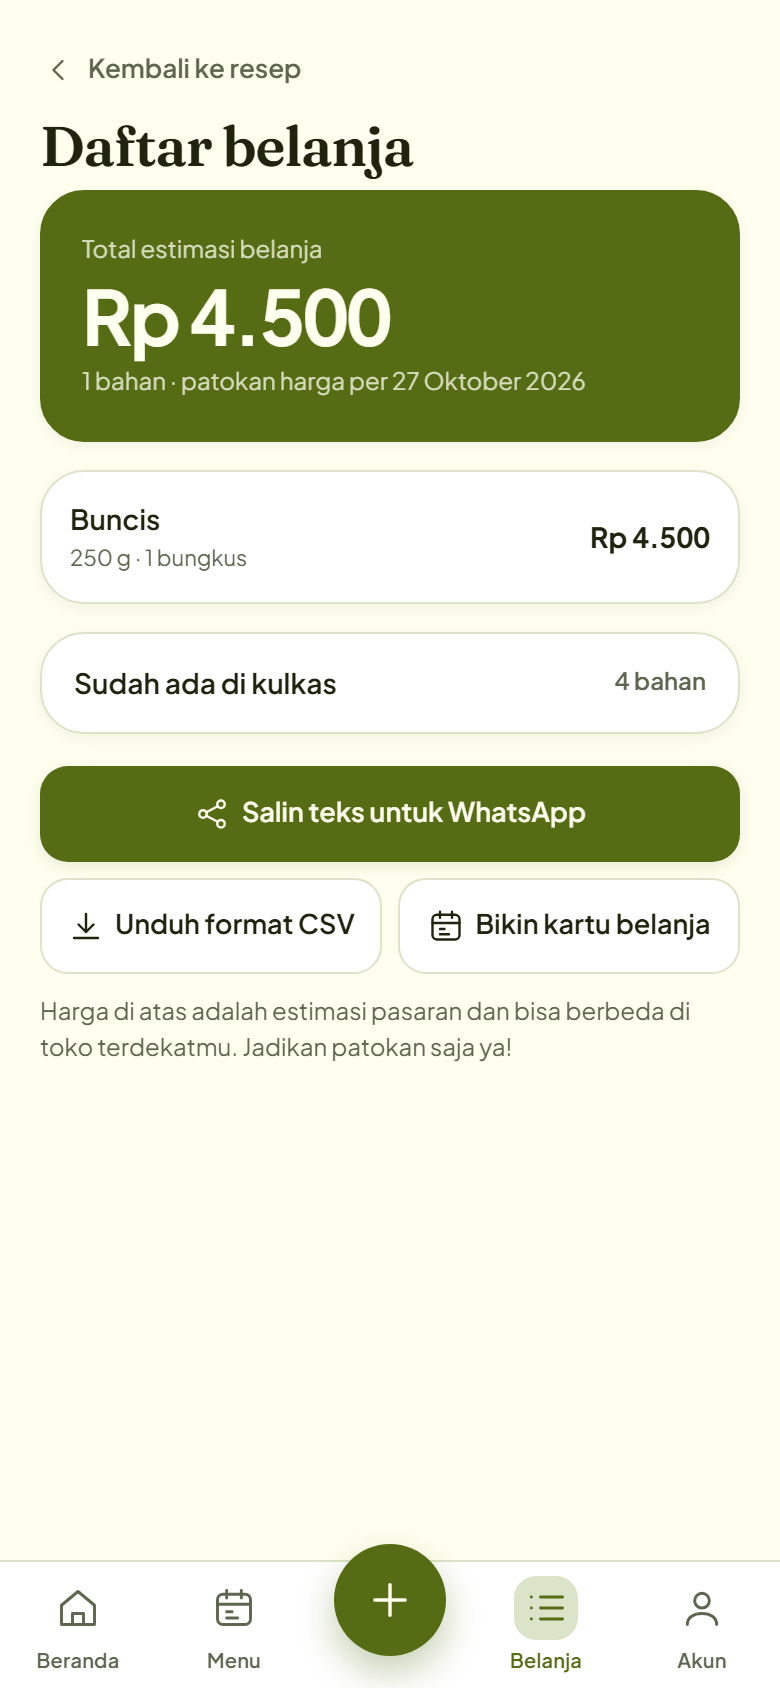
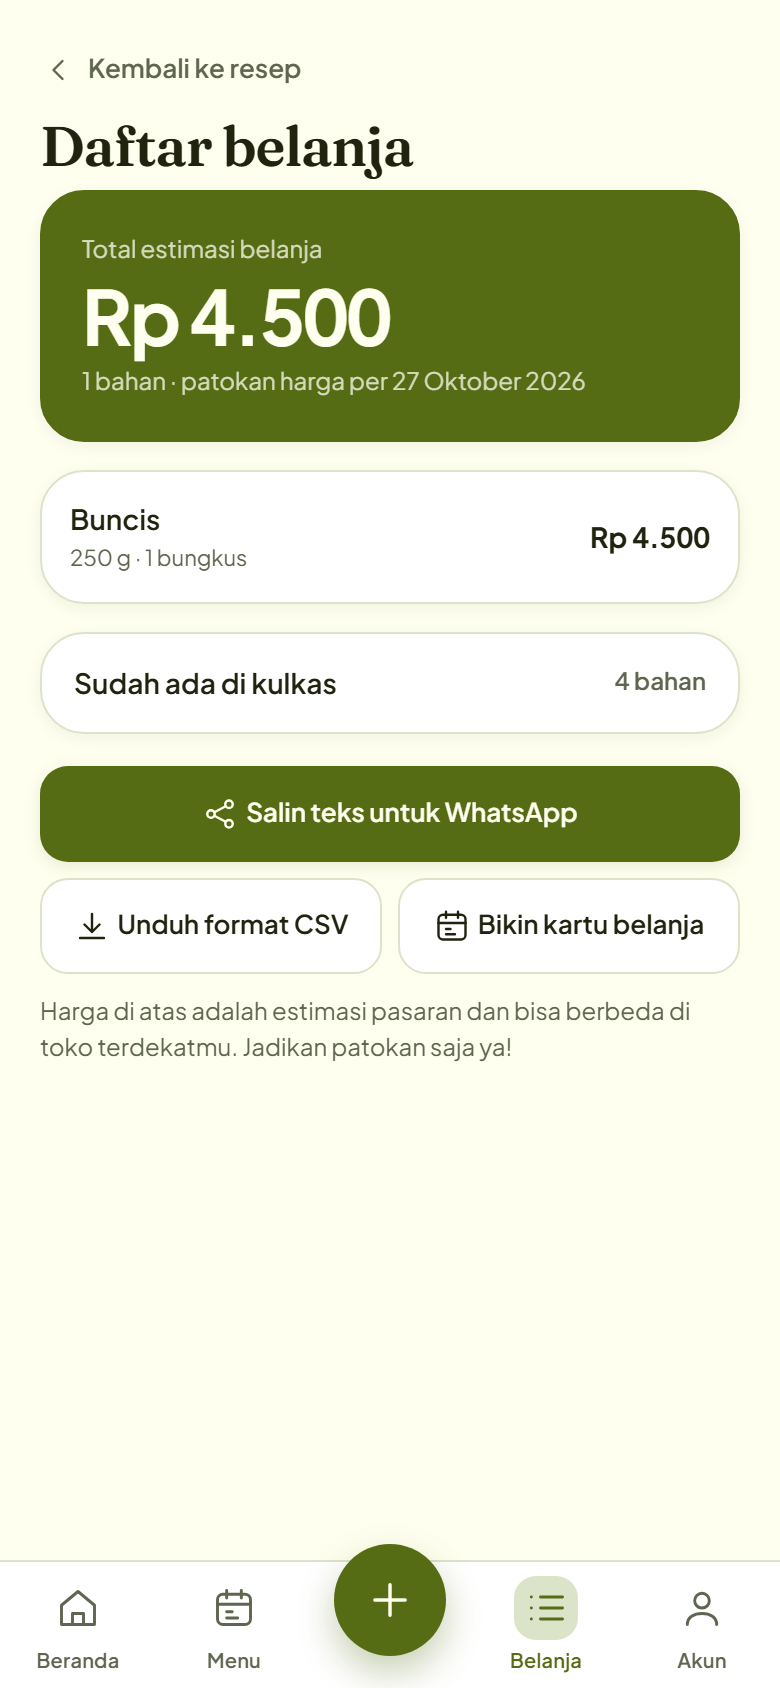
Default to light mode and polish English UI copy

diff --git a/app/lib/copy.ts b/app/lib/copy.ts
@@ -10,6 +10,11 @@
 
 import type { Unit } from "./types";
 
+/** English count phrases: pick the singular noun only when the count is exactly one. */
+function plural(n: number, one: string, many: string): string {
+  return `${n} ${n === 1 ? one : many}`;
+}
+
 const id = {
   brand: {
     name: "Pantrified",
@@ -404,8 +409,8 @@ export const en: Copy = {
     decrease: "Decrease",
     increase: "Increase",
     perPortion: "per serving",
-    portions: (n: number) => `${n} servings`,
-    minutes: (n: number) => `${n} minutes`,
+    portions: (n: number) => plural(n, "serving", "servings"),
+    minutes: (n: number) => plural(n, "minute", "minutes"),
     minutesShort: (n: number) => `${n} min`,
     kcal: (n: number) => `${n} kcal`,
     rupiahPrefix: "Rp",
@@ -469,11 +474,11 @@ export const en: Copy = {
     title: "Let's check the ingredients",
     photoLabel: "photo",
     sub: (count: number, label: string) =>
-      `${count} ingredients ready from ${label}. Remove anything wrong, or add what's missing.`,
-    subLead: (count: number) => `${count} ingredients ready from `,
-    subCheck: (count: number) => `${count} need a check`,
+      `${plural(count, "ingredient", "ingredients")} ready from ${label}. Remove anything wrong, or add what's missing.`,
+    subLead: (count: number) => `${plural(count, "ingredient", "ingredients")} ready from `,
+    subCheck: (count: number) => `${count} ${count === 1 ? "needs" : "need"} a check`,
     subTail: ". Remove anything wrong, or add what's missing.",
-    ignored: (n: number) => `${n} low-confidence ingredients hidden.`,
+    ignored: (n: number) => `${plural(n, "low-confidence ingredient", "low-confidence ingredients")} hidden.`,
     empty: "No ingredients yet. Add them one by one.",
     add: "Add ingredient",
     continue: "Next: Set Budget",
@@ -491,12 +496,13 @@ export const en: Copy = {
   constraints: {
     back: "Back",
     title: "Set budget & preferences",
-    sub: (n: number) => `${n} ingredients ready to cook. Set the limits and we'll build the best menu.`,
+    sub: (n: number) =>
+      `${plural(n, "ingredient", "ingredients")} ready to cook. Set the limits and we'll build the best menu.`,
     budgetLabel: "Food budget per day",
     budgetNote: (meals: number, perMeal: string) =>
-      `For ${meals} meals, about ${perMeal} per serving.`,
+      `For ${plural(meals, "meal", "meals")}, about ${perMeal} per serving.`,
     mealsLabel: "How many meals?",
-    meals: (n: number) => `${n} meals`,
+    meals: (n: number) => plural(n, "meal", "meals"),
     kcalLabel: "Calorie target per serving",
     kcalOption: (n: number) => `${n} kcal`,
     dietLabel: "Diet preference",
@@ -531,7 +537,7 @@ export const en: Copy = {
     tagOver: "A little over budget",
     tagOk: "Within budget",
     tagStock: "Fridge stock covers it",
-    missing: (n: number) => `${n} ingredients short`,
+    missing: (n: number) => `${plural(n, "ingredient", "ingredients")} short`,
     complete: "All ingredients ready",
     have: (pct: string) => `${pct} of ingredients on hand`,
     shopping: "Shop first",
@@ -552,22 +558,23 @@ export const en: Copy = {
     tabIngredients: "Ingredients",
     tabSteps: "How to cook",
     priceNote: (servings: number) =>
-      `Estimated price for ${servings} servings. Everyday staples are assumed to be available.`,
+      `Estimated price for ${plural(servings, "serving", "servings")}. Everyday staples are assumed to be available.`,
     cta: (cost: string | null) => (cost ? `Make grocery list · ${cost}` : "View grocery list"),
     meta: (servings: number, minutes: number, kcal: number) =>
-      `${servings} servings · ${minutes} min · ${kcal} kcal`,
+      `${plural(servings, "serving", "servings")} · ${minutes} min · ${kcal} kcal`,
   },
 
   grocery: {
     back: "Back to recipe",
     title: "Grocery list",
-    sub: (recipe: string, servings: number) => `${recipe} · ${servings} servings`,
+    sub: (recipe: string, servings: number) => `${recipe} · ${plural(servings, "serving", "servings")}`,
     total: "Estimated grocery total",
-    totalMeta: (count: number, date: string) => `${count} ingredients · prices as of ${date}`,
+    totalMeta: (count: number, date: string) =>
+      `${plural(count, "ingredient", "ingredients")} · prices as of ${date}`,
     allHave: "Nice, everything is already in your fridge. Time to cook!",
     haveTitle: "Already in the fridge",
-    haveCount: (n: number) => `${n} ingredients`,
-    packs: (n: number) => `${n} packs`,
+    haveCount: (n: number) => plural(n, "ingredient", "ingredients"),
+    packs: (n: number) => plural(n, "pack", "packs"),
     leftover: (qty: string) => `extra ${qty}`,
     noPrice: "No price yet",
     copy: "Copy text for WhatsApp",
@@ -587,7 +594,7 @@ export const en: Copy = {
     sub: "Manage your data, appearance, language, and kitchen equipment.",
     analyticsTitle: "Help improve the app (Analytics)",
     analyticsBody: "Off by default. No photos or personal data are uploaded.",
-    events: (n: number) => `${n} events saved on your device.`,
+    events: (n: number) => `${plural(n, "event", "events")} saved on your device.`,
     staplesTitle: "Everyday staples",
     staplesBody: "Salt, sugar, oil, and soy sauce never enter the grocery list.",
     equipmentTitle: "Kitchen equipment",
@@ -598,7 +605,7 @@ export const en: Copy = {
     aboutBody: (date: string) =>
       `Demo capstone project. Ingredient detection is simulated, and prices are dated ${date}.`,
     aboutFine: (recipes: number, ingredients: number) =>
-      `Includes ${recipes} sample recipes and ${ingredients} ingredients. Your photos are safe and never stored on a server.`,
+      `Includes ${plural(recipes, "sample recipe", "sample recipes")} and ${plural(ingredients, "ingredient", "ingredients")}. Your photos are safe and never stored on a server.`,
     confirmDelete: "Delete all data on this device?",
     sectionData: "Data & Privacy",
     sectionApp: "App",
@@ -648,8 +655,8 @@ export const en: Copy = {
     cardFooter: "Estimated market prices",
     cardHandle: "pantrified.app",
     emptyItems: "Great, you already have everything!",
-    haveNote: (n: number) => `${n} ingredients already in the fridge.`,
-    more: (n: number) => `+${n} more ingredients`,
+    haveNote: (n: number) => `${plural(n, "ingredient", "ingredients")} already in the fridge.`,
+    more: (n: number) => `+${n} more ${n === 1 ? "ingredient" : "ingredients"}`,
     themeLight: "Light Mode",
     themeDark: "Dark Mode",
     themeLabel: "Preview style",
@@ -668,7 +675,7 @@ export const en: Copy = {
   exportText: {
     listTitle: "Pantrified Grocery List",
     line: (name: string, qty: string, pack: string, cost: string) => `- ${name} ${qty} (${pack}) ${cost}`,
-    pack: (n: number) => `${n} packs`,
+    pack: (n: number) => plural(n, "pack", "packs"),
     singlePack: "1 pack",
     total: (cost: string) => `Total ${cost}`,
     pricePer: (date: string) => `Prices as of ${date}`,
@@ -710,7 +717,7 @@ export const en: Copy = {
     sessionTitle: "Active session",
     sessionEmpty: "No ingredients yet",
     sessionEmptyHint: "Start with a fridge photo or a ready-made sample.",
-    sessionItems: (n: number) => `${n} ingredients`,
+    sessionItems: (n: number) => plural(n, "ingredient", "ingredients"),
     sessionBudget: "Budget",
     sessionResume: "Open session",
     priceDate: "Prices",

diff --git a/app/components/App.tsx b/app/components/App.tsx
@@ -31,6 +31,7 @@ export default function App() {
   const [plans, setPlans] = useState<Plan[]>([]);
   const [selectedId, setSelectedId] = useState<string | null>(null);
   const [detectionLabel, setDetectionLabel] = useState("");
+  const [detectionSample, setDetectionSample] = useState<string | null>(null);
   const [ignored, setIgnored] = useState(0);
   const [events, setEvents] = useState<FeedbackEvent[]>([]);
   const [hydrated, setHydrated] = useState(false);
@@ -95,6 +96,7 @@ export default function App() {
       setPlans([]);
       setSelectedId(null);
       setDetectionLabel(result.label);
+      setDetectionSample(result.sampleId ?? null);
       setIgnored(result.ignored + (result.items.length - kept.length));
       setSheet(null);
       setScreen("review");
@@ -113,13 +115,17 @@ export default function App() {
 
   const startSample = useCallback(
     (id: string) => {
-      const label = copy.samples[id as keyof typeof copy.samples]?.label ?? id;
-      startDetection(detectSample(id, label));
+      startDetection(detectSample(id));
     },
-    [copy, startDetection],
+    [startDetection],
   );
 
   const activeItems = useMemo(() => items.filter((item) => !excluded.includes(item.id)), [items, excluded]);
+
+  const reviewLabel =
+    (detectionSample ? copy.samples[detectionSample as keyof typeof copy.samples]?.label : "") ||
+    detectionLabel ||
+    copy.review.photoLabel;
 
   const generate = useCallback(() => {
     const next = buildPlans(activeItems, profile);
@@ -263,7 +269,7 @@ export default function App() {
             <Review
               items={items}
               excluded={excluded}
-              detectionLabel={detectionLabel || copy.review.photoLabel}
+              detectionLabel={reviewLabel}
               ignored={ignored}
               onToggle={toggle}
               onQty={changeQty}

diff --git a/app/app/layout.tsx b/app/app/layout.tsx
@@ -36,16 +36,14 @@ export const metadata: Metadata = {
 };
 
 export const viewport: Viewport = {
-  themeColor: [
-    { media: "(prefers-color-scheme: light)", color: "#fffff0" },
-    { media: "(prefers-color-scheme: dark)", color: "#15180b" },
-  ],
+  // Light is the product default; `UiProvider` swaps this meta when dark is chosen.
+  themeColor: "#fffff0",
   width: "device-width",
   initialScale: 1,
   viewportFit: "cover",
 };
 
-const themeBoot = `(function(){try{var d=document.documentElement;var t=localStorage.getItem("pantrified.theme");var dark=t==="dark"||(t!=="light"&&window.matchMedia("(prefers-color-scheme: dark)").matches);d.dataset.theme=dark?"dark":"light";d.style.colorScheme=dark?"dark":"light";var l=localStorage.getItem("pantrified.locale");if(l==="en"||l==="id")d.lang=l;}catch(e){}})();`;
+const themeBoot = `(function(){try{var d=document.documentElement;var t=localStorage.getItem("pantrified.theme");var dark=t==="dark";d.dataset.theme=dark?"dark":"light";d.style.colorScheme=dark?"dark":"light";var setMeta=function(){var m=document.querySelector('meta[name="theme-color"]');if(m)m.content=dark?"#15180b":"#fffff0";};setMeta();document.addEventListener("DOMContentLoaded",setMeta);var l=localStorage.getItem("pantrified.locale");if(l==="en"||l==="id")d.lang=l;}catch(e){}})();`;
 
 export default function RootLayout({ children }: { children: React.ReactNode }) {
   return (

diff --git a/app/lib/ui.tsx b/app/lib/ui.tsx
@@ -28,7 +28,7 @@ export function UiProvider({ children }: { children: React.ReactNode }) {
 
   useEffect(() => {
     let nextLocale: Locale = "id";
-    let nextTheme: Theme = theme;
+    let nextTheme: Theme = "light";
     try {
       const storedLocale = window.localStorage.getItem(LOCALE_KEY);
       if (storedLocale === "id" || storedLocale === "en") nextLocale = storedLocale;
@@ -60,6 +60,8 @@ export function UiProvider({ children }: { children: React.ReactNode }) {
     const root = document.documentElement;
     root.dataset.theme = theme;
     root.style.colorScheme = theme;
+    const meta = document.querySelector<HTMLMetaElement>('meta[name="theme-color"]');
+    if (meta) meta.content = theme === "dark" ? "#15180b" : "#fffff0";
     if (!ready) return;
     try {
       window.localStorage.setItem(THEME_KEY, theme);

diff --git a/app/lib/detect.ts b/app/lib/detect.ts
@@ -39,7 +39,7 @@ export function detectUpload(file: File): DetectionResult {
   };
 }
 
-export function detectSample(sampleId: string, label: string): DetectionResult {
+export function detectSample(sampleId: string): DetectionResult {
   const sample = SAMPLES.find((s) => s.id === sampleId) ?? SAMPLES[0];
   const items: DetectedItem[] = sample.items.map((item) => ({
     id: item.id,
@@ -51,7 +51,8 @@ export function detectSample(sampleId: string, label: string): DetectionResult {
     items,
     ignored: items.filter((item) => item.confidence < 0.3).length,
     source: "sample",
-    label,
+    label: "",
+    sampleId: sample.id,
   };
 }
 

diff --git a/app/app/globals.css b/app/app/globals.css
@@ -2857,6 +2857,23 @@ a {
   }
 }
 
+/* Keep long English labels on one line on narrow phones. */
+@media (max-width: 420px) {
+  .action-row .btn {
+    padding: 0 8px;
+    gap: 4px;
+    font-size: 13px;
+  }
+}
+
+@media (max-width: 360px) {
+  .hero-actions .btn {
+    padding: 0 12px;
+    gap: 6px;
+    font-size: 14px;
+  }
+}
+
 /* mobile spacing for the new form wrappers */
 @media (max-width: 1023px) {
   .form-grid,

diff --git a/app/components/Sheet.tsx b/app/components/Sheet.tsx
@@ -103,7 +103,7 @@ export function StartSheet({
               key={sample.id}
               type="button"
               className="start-row"
-              onClick={() => onDetect(detectSample(sample.id, meta.label))}
+              onClick={() => onDetect(detectSample(sample.id))}
             >
               <span className={`start-art start-${sample.id}`} aria-hidden="true">
                 {meta.emoji}

diff --git a/app/lib/types.ts b/app/lib/types.ts
@@ -55,7 +55,9 @@ export interface DetectionResult {
   items: DetectedItem[];
   ignored: number;
   source: "sample" | "upload";
+  /** Uploads show the file name; samples resolve their label from the active copy. */
   label: string;
+  sampleId?: string;
 }
 
 export interface GroceryItem {

diff --git a/app/README.md b/app/README.md
@@ -40,7 +40,7 @@ The build is a static export, so any static host works. Installability needs HTT
 | Plan ranking, pack rounding, missing-only costing | Real |
 | Grocery list copy (WhatsApp text) and CSV download | Real |
 | Share card (fabric.js, PNG download) | Real, drawn locally at 1080×1350 |
-| Light / dark theme, Indonesian / English UI | Real, stored on the device; system colour scheme on first visit |
+| Light / dark theme, Indonesian / English UI | Real, light is the default; preferences are stored on the device |
 | Desktop 3D hero (three.js) | Real, decorative only, pauses offscreen |
 | Local persistence, analytics consent gate, data export, delete | Real |
 | Ingredient detection | **Simulated.** `lib/detect.ts` hashes the file and replays a seeded fridge scene. The image is never read or uploaded. |
@@ -65,7 +65,7 @@ app/
 ## Copy, graphics, and motion
 
 - **All UI copy lives in `lib/copy.ts`.** Brand, nav, screen titles, button labels, toasts, share-card text, and a11y labels come from two dictionaries with an identical shape: `id` (default) and `en`. Recipe and ingredient content stays in `lib/data.ts`. Components read the active dictionary through `useCopy()` from `lib/ui.tsx`; the exported `copy` constant is the Indonesian default for modules that run outside React.
-- **Theme and language are device preferences.** `lib/ui.tsx` stores `pantrified.theme` and `pantrified.locale`, updates `<html lang>` and `data-theme`, and falls back to the system colour scheme when no theme has been chosen. A small pre-hydration script in `app/layout.tsx` applies both before first paint.
+- **Theme and language are device preferences.** `lib/ui.tsx` stores `pantrified.theme` and `pantrified.locale`, updates `<html lang>` and `data-theme`, and keeps light mode as the default until the user chooses dark. A small pre-hydration script in `app/layout.tsx` applies both before first paint.
 - **The app icon is the logo.** `public/icon.svg` is the favicon, the mobile home mark, and the desktop sidebar mark, so branding stays consistent with the installed app.
 - **Sample fridges use emoji cards.** The three sample-card illustrations and start-sheet thumbnails are emoji (`🍳`, `🍚`, `🥗`) defined with the sample labels in `lib/copy.ts`, so they translate with the interface.
 - **Ingredient search understands aliases.** `lib/ingredients.ts` normalizes case, punctuation, and spacing, then matches names and aliases such as `tempeh`, `chayote`, or `scallion`, so English or informal Indonesian still finds the right row.

diff --git a/README.md b/README.md
@@ -48,7 +48,7 @@ Pantrified does exactly that, in Indonesian or English, with Jakarta price data.
 
 - **Budget as a hard constraint.** The planner scores recipes on pantry fit, cost, calories, diet, cook time, and equipment, then shows the three best options. Pack rounding and missing-only costing keep the total honest.
 - **Human in the loop.** The detector never silently decides. Low-confidence rows get an amber `?`, a "perlu dicek" tag, and a count in the header.
-- **Light and dark, Indonesian or English.** Both preferences live in Settings and persist on the device. The first visit follows the system colour scheme; the English interface translates UI copy only, while recipe and ingredient names stay Indonesian.
+- **Light and dark, Indonesian or English.** Light mode is the default for everyone. Both preferences live in Settings and persist on the device; the English interface translates UI copy only, while recipe and ingredient names stay Indonesian.
 - **Local-first and offline-ready.** No account, no backend, no upload. State lives in `localStorage`; the service worker keeps the shell usable offline.
 - **Designed for Indonesian kitchens.** Indonesian copy, rupiah formatting, local dishes and ingredients, and a fresh market visual language: cream paper, olive, sage, and orange in light mode, olive-black and lime in dark mode, Fraunces headings, Plus Jakarta Sans UI.
 - **Two real layouts.** A 390px-first mobile flow with a tab bar and sticky CTAs, and a desktop shell from 1024px with a sidebar, rails, a three.js pantry still-life, and a two- or three-column plan grid.
